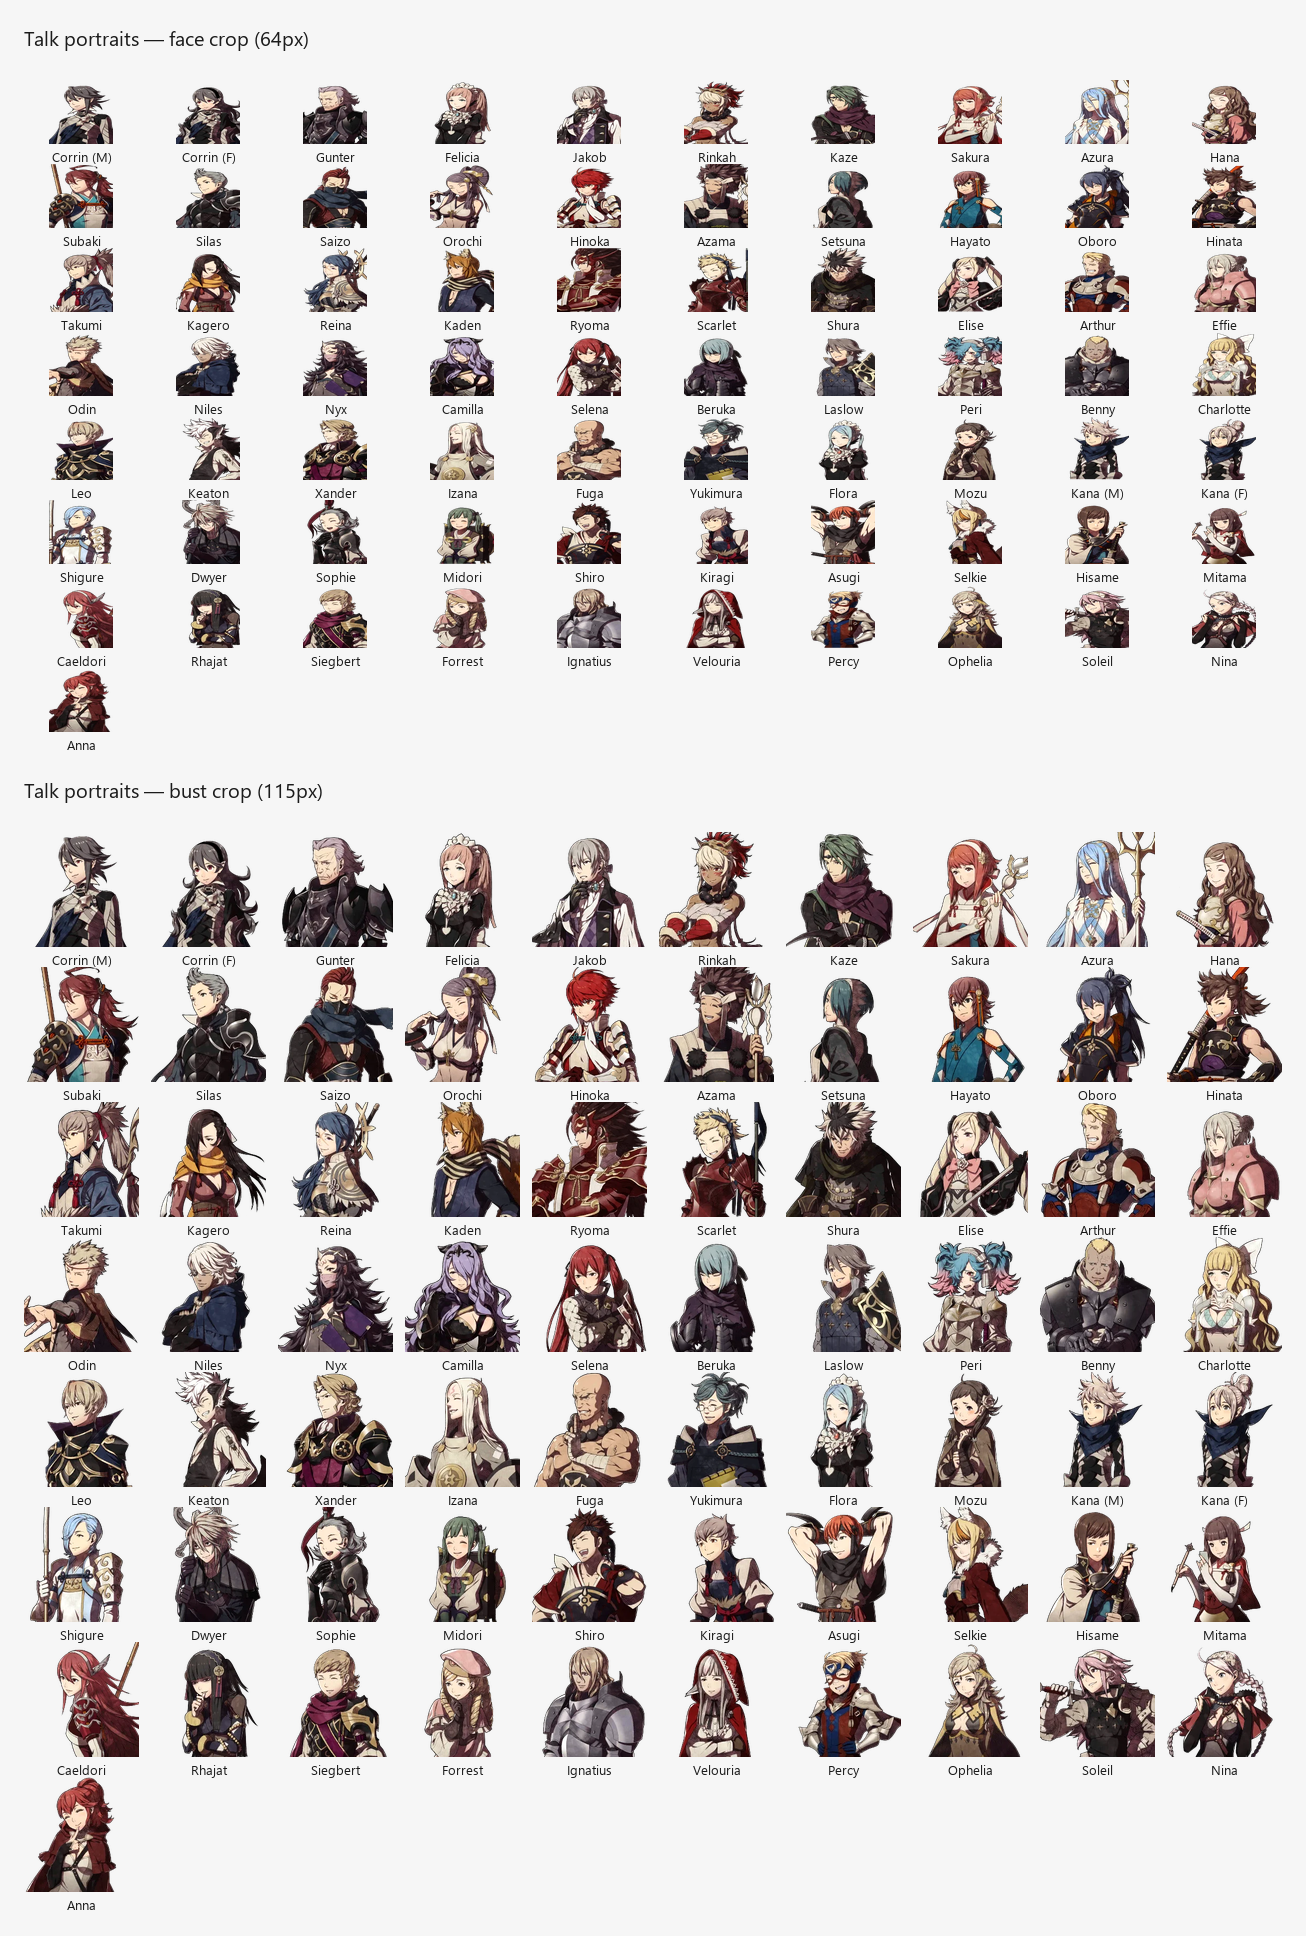
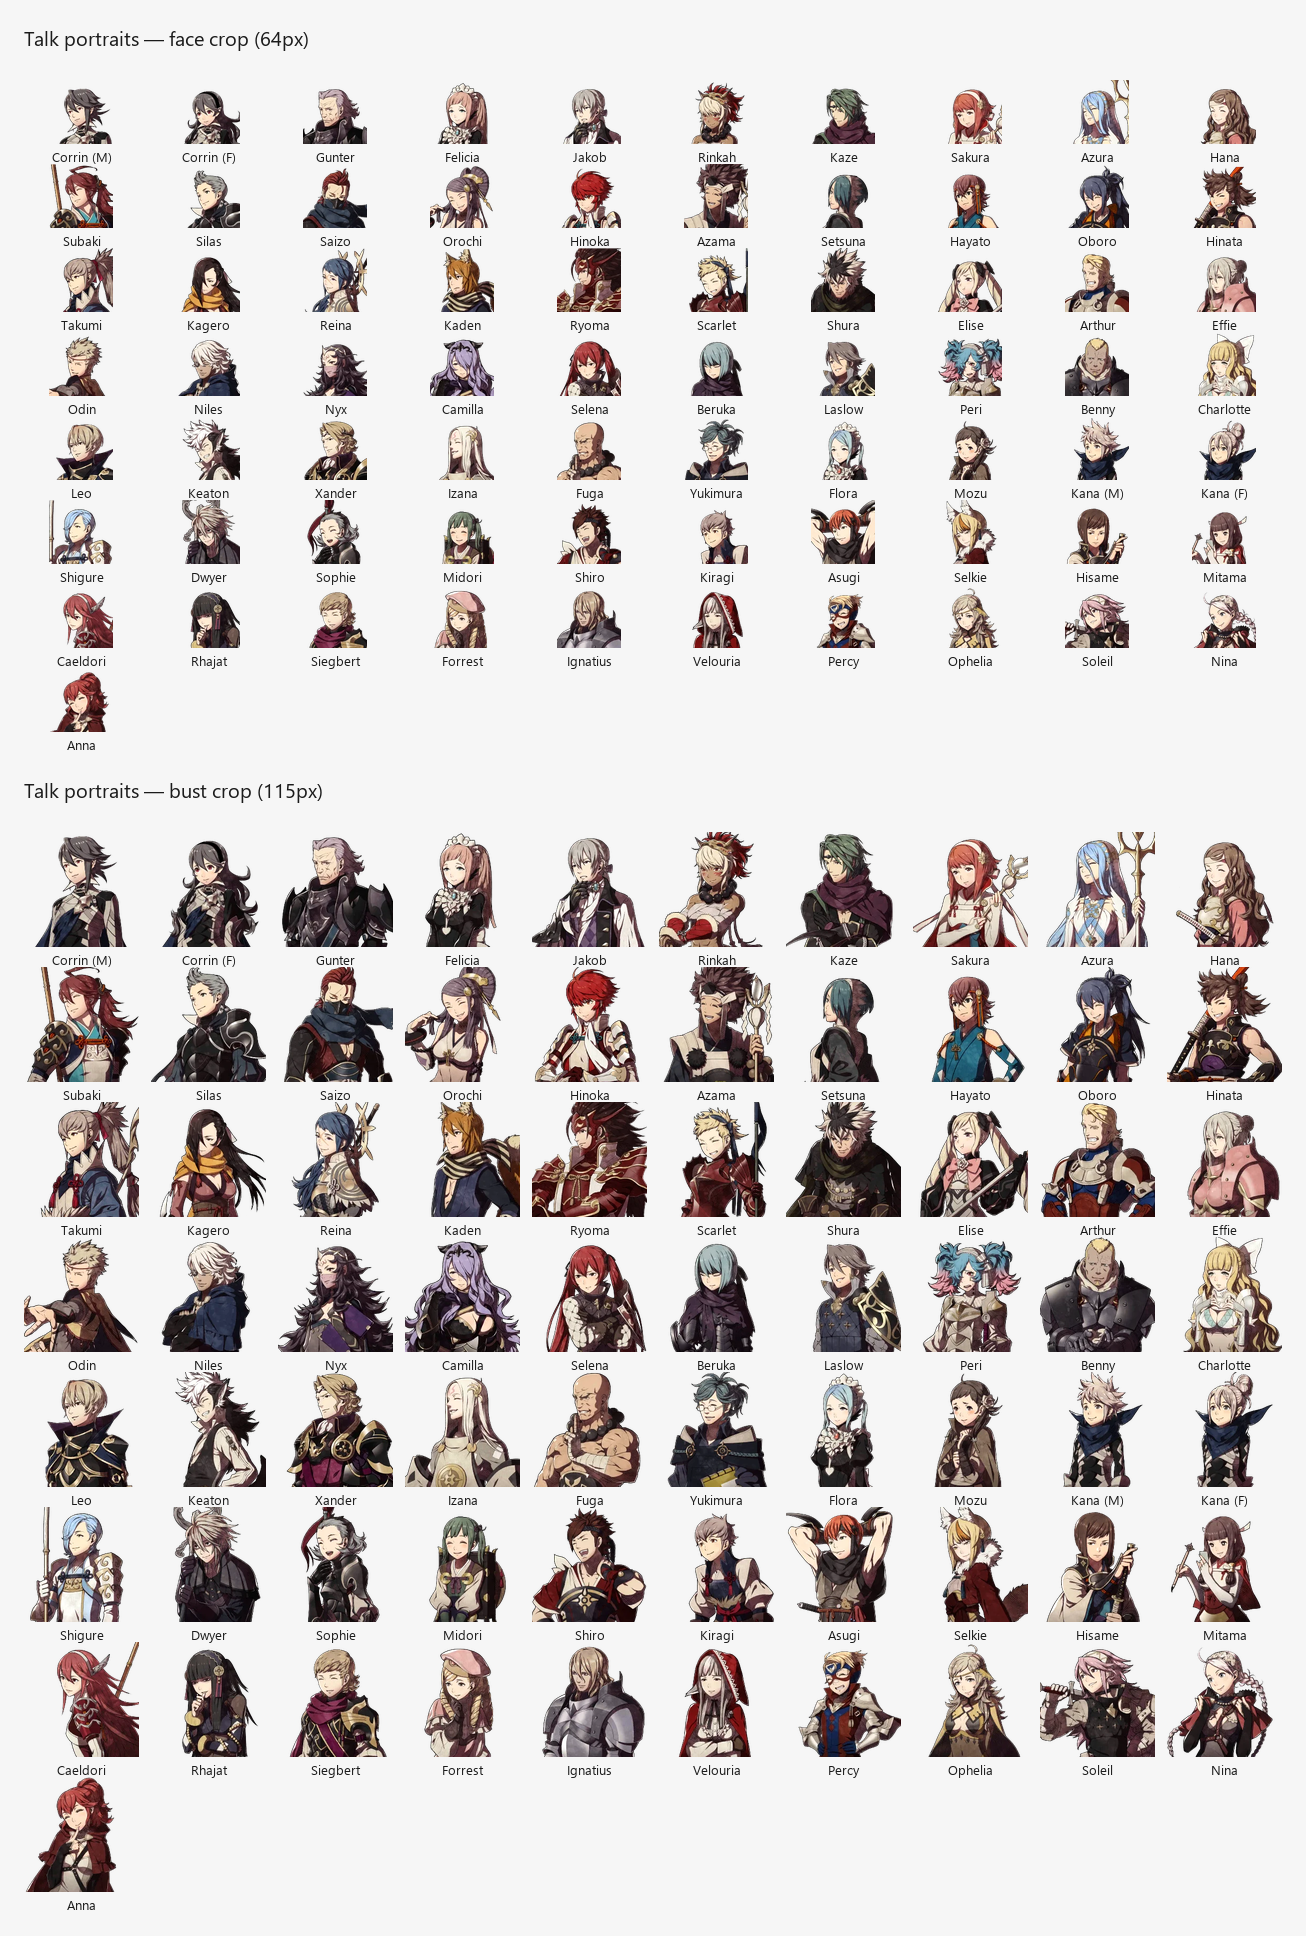
v3-portraits: fix face row of the contact sheet (cropped to the section y)

diff --git a/tools/assets/extract_portraits.py b/tools/assets/extract_portraits.py
@@ -286,7 +286,7 @@ def write_contact_sheet(rows: list[dict], out_dir: str, path: str) -> None:
         with Image.open(os.path.join(out_dir, os.path.basename(row["entry"]["file"]))) as opened:
             portrait = opened.convert("RGBA")
         x, yy, w, h = row["entry"]["face"]
-        face = portrait.crop((x, yy, x + w, y + h)).resize((FACE_CHIP, FACE_CHIP), Image.LANCZOS)
+        face = portrait.crop((x, yy, x + w, yy + h)).resize((FACE_CHIP, FACE_CHIP), Image.LANCZOS)
         cell_x = SHEET_PAD + (index % SHEET_COLUMNS) * SHEET_CELL
         cell_y = y + (index // SHEET_COLUMNS) * (FACE_CHIP + SHEET_LABEL)
         sheet.paste(face, (cell_x + (SHEET_CELL - SHEET_GAP - FACE_CHIP) // 2, cell_y), face)
